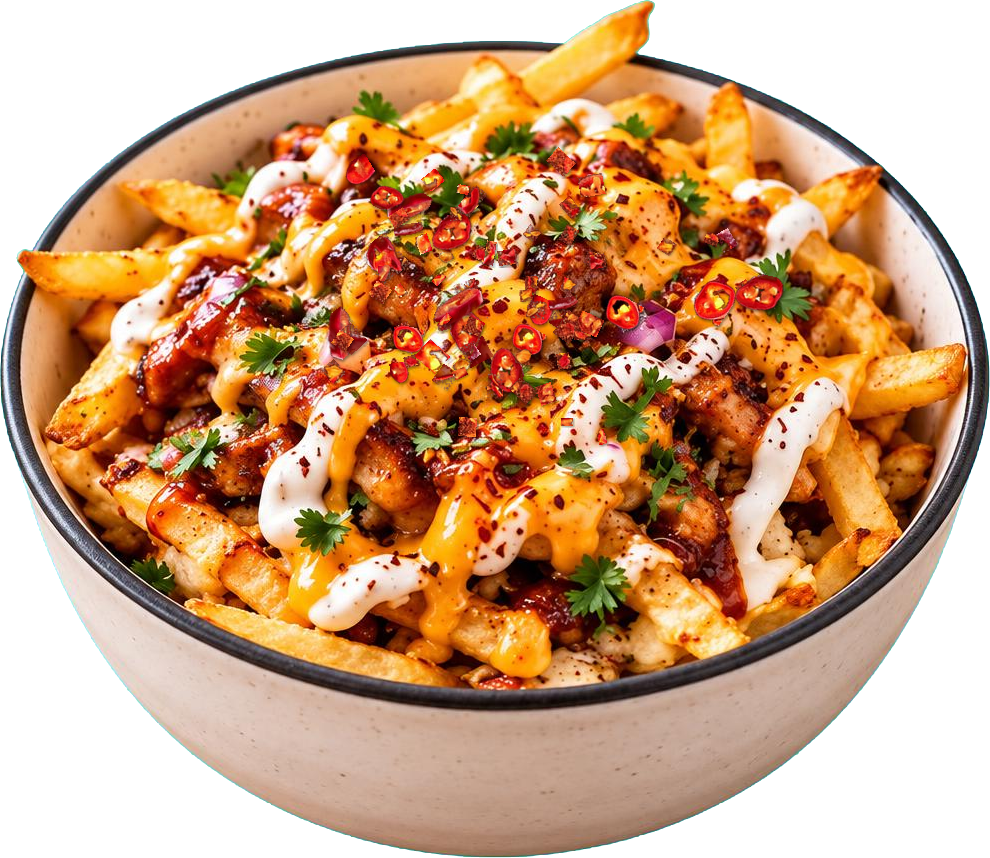
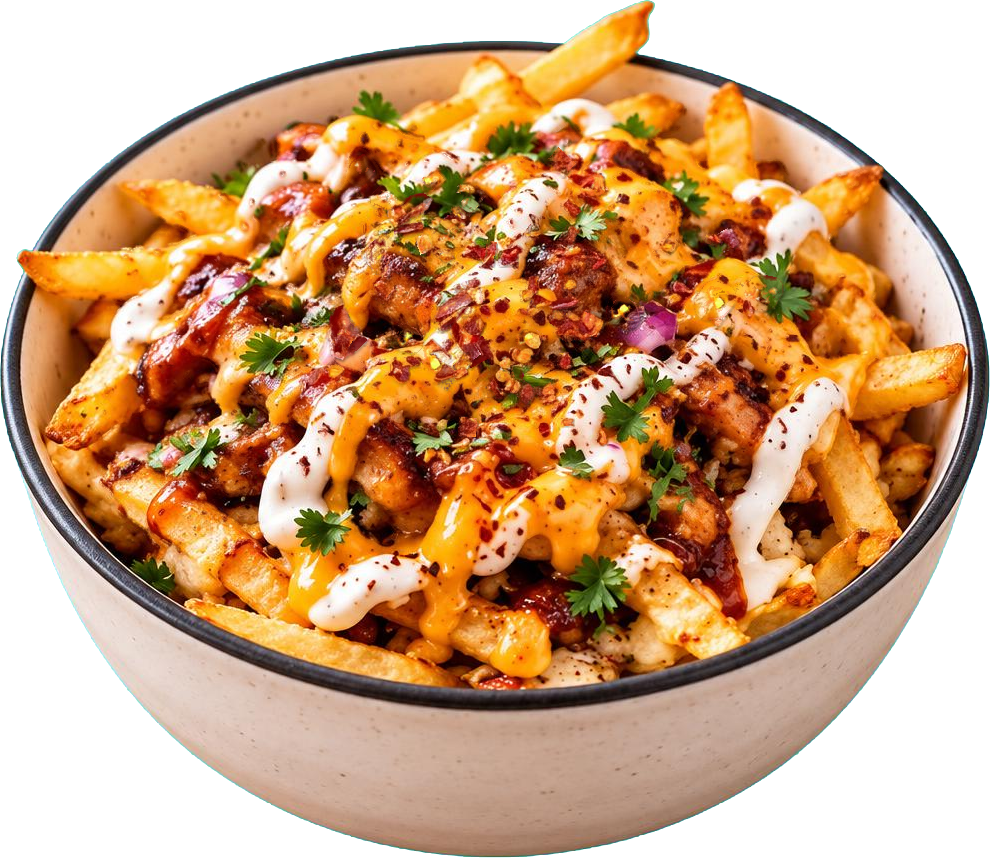
feat: animate bowl and floating ingredients entrance, remove chili rings, optimize hero performance

diff --git a/src/components/food-hero.tsx b/src/components/food-hero.tsx
@@ -4,6 +4,7 @@ import chickenRound from "@/assets/chicken-cutout-1.png";
 import chickenLong from "@/assets/chicken-cutout-2.png";
 import chickenAngular from "@/assets/chicken-cutout-3.png";
 import chickenOblong from "@/assets/chicken-cutout-4.png";
+import crispyChicken from "@/assets/crispy-chicken-piece.png";
 import friesCurved from "@/assets/fries-cutout-1.png";
 import friesShort from "@/assets/fries-cutout-2.png";
 import friesTapered from "@/assets/fries-cutout-3.png";
@@ -21,6 +22,11 @@ const floatingFood = [
   { src: friesBent, position: "food-piece-7", rotation: "14deg", delay: "-6.2s", duration: "10.3s", lift: "-28px", sway: "5px", speed: 0.28, ease: 0.065, drift: 0.025, spin: -0.018 },
   { src: chickenOblong, position: "food-piece-8", rotation: "-45deg", delay: "-3.9s", duration: "8.8s", lift: "-13px", sway: "-12px", speed: 0.14, ease: 0.085, drift: -0.02, spin: 0.034 },
   { src: friesNarrow, position: "food-piece-9", rotation: "30deg", delay: "-2.6s", duration: "7.1s", lift: "-20px", sway: "7px", speed: 0.24, ease: 0.05, drift: 0.03, spin: -0.025 },
+  { src: friesShort, position: "food-piece-10", rotation: "-18deg", delay: "-3.6s", duration: "7.8s", lift: "-18px", sway: "9px", speed: 0.21, ease: 0.06, drift: 0.028, spin: 0.018 },
+  { src: friesBent, position: "food-piece-11", rotation: "42deg", delay: "-1.9s", duration: "8.6s", lift: "-22px", sway: "-7px", speed: 0.23, ease: 0.08, drift: -0.032, spin: -0.02 },
+  { src: crispyChicken, position: "food-piece-12", rotation: "15deg", delay: "-4.1s", duration: "9.2s", lift: "-15px", sway: "-9px", speed: 0.15, ease: 0.07, drift: 0.025, spin: 0.016 },
+  { src: chickenRound, position: "food-piece-13", rotation: "-35deg", delay: "-2.8s", duration: "6.9s", lift: "-17px", sway: "8px", speed: 0.18, ease: 0.095, drift: -0.022, spin: -0.024 },
+  { src: friesCurved, position: "food-piece-14", rotation: "-15deg", delay: "-5.3s", duration: "8.5s", lift: "-24px", sway: "10px", speed: 0.25, ease: 0.06, drift: 0.03, spin: 0.022 },
   { src: friesGolden, position: "food-foreground food-foreground-1", rotation: "-32deg", delay: "-4.8s", duration: "9.1s", lift: "-16px", sway: "7px", speed: 0.2, ease: 0.07, drift: -0.02, spin: 0.014 },
   { src: chickenRound, position: "food-foreground food-foreground-2", rotation: "22deg", delay: "-2.4s", duration: "8.4s", lift: "-12px", sway: "-6px", speed: 0.16, ease: 0.08, drift: 0.02, spin: -0.018 },
   { src: friesTapered, position: "food-foreground food-foreground-3", rotation: "-12deg", delay: "-5.1s", duration: "10.1s", lift: "-18px", sway: "5px", speed: 0.25, ease: 0.06, drift: 0.015, spin: 0.02 },
@@ -167,6 +173,69 @@ export function FoodHero({ children }: { children: React.ReactNode }) {
       window.removeEventListener("scroll", update);
       window.removeEventListener("resize", resize);
       reducedMotion.removeEventListener("change", update);
+    };
+  }, []);
+
+  useEffect(() => {
+    const section = sectionRef.current;
+    if (!section) return;
+
+    const reducedMotion = window.matchMedia("(prefers-reduced-motion: reduce)");
+    if (reducedMotion.matches) {
+      section.style.setProperty("--intro-bowl-y", "0px");
+      section.style.setProperty("--intro-piece-y", "0px");
+      return;
+    }
+
+    // Initial offsets: Bowl sits low (+380px down), floating pieces hover up (-360px above)
+    const startBowlY = 380;
+    const startPieceY = -360;
+    section.style.setProperty("--intro-bowl-y", `${startBowlY}px`);
+    section.style.setProperty("--intro-piece-y", `${startPieceY}px`);
+
+    let animFrame = 0;
+
+    const startAnimation = () => {
+      // Delay slightly (120ms) so preloader curtain panels finish their initial burst before bowl begins rising
+      setTimeout(() => {
+        let startTime = 0;
+        const duration = 1600; // 1.6s smooth entrance
+
+        // Smooth ease-out cubic
+        const easeOutCubic = (t: number) => 1 - Math.pow(1 - t, 3);
+
+        const step = (now: number) => {
+          if (!startTime) startTime = now;
+          const elapsed = now - startTime;
+          const progress = Math.min(1, elapsed / duration);
+          const eased = easeOutCubic(progress);
+
+          const currentBowlY = startBowlY * (1 - eased);
+          const currentPieceY = startPieceY * (1 - eased);
+
+          section.style.setProperty("--intro-bowl-y", `${currentBowlY.toFixed(2)}px`);
+          section.style.setProperty("--intro-piece-y", `${currentPieceY.toFixed(2)}px`);
+
+          if (progress < 1) {
+            animFrame = window.requestAnimationFrame(step);
+          } else {
+            section.style.setProperty("--intro-bowl-y", "0px");
+            section.style.setProperty("--intro-piece-y", "0px");
+          }
+        };
+
+        animFrame = window.requestAnimationFrame(step);
+      }, 120);
+    };
+
+    // Trigger on preloader curtain exit, or fallback if preloader already exited/skipped
+    window.addEventListener("preloader:exit", startAnimation, { once: true });
+    const fallbackTimer = window.setTimeout(startAnimation, 2400);
+
+    return () => {
+      window.removeEventListener("preloader:exit", startAnimation);
+      window.clearTimeout(fallbackTimer);
+      window.cancelAnimationFrame(animFrame);
     };
   }, []);
 

diff --git a/src/styles.css b/src/styles.css
@@ -172,12 +172,18 @@
   top: 30%;
   left: 50%;
   width: min(56%, 600px);
-  transform: translate(-50%, var(--scroll-y, 0px)) rotate(var(--scroll-rotation, 0deg));
+  transform: translate3d(-50%, calc(var(--intro-bowl-y, 0px) + var(--scroll-y, 0px)), 0) rotate(var(--scroll-rotation, 0deg));
   will-change: transform;
+  contain: layout paint;
 }
 .food-piece {
-  transform: translate(calc(var(--scroll-x, 0px) + var(--cursor-x, 0px)), calc(var(--scroll-y, 0px) + var(--cursor-y, 0px))) rotate(var(--scroll-rotation, 0deg));
+  transform: translate3d(
+    calc(var(--scroll-x, 0px) + var(--cursor-x, 0px)),
+    calc(var(--intro-piece-y, 0px) + var(--scroll-y, 0px) + var(--cursor-y, 0px)),
+    0
+  ) rotate(var(--scroll-rotation, 0deg));
   will-change: transform;
+  contain: layout paint;
 }
 .food-piece-image {
   animation: food-drift var(--float-duration, 7s) ease-in-out infinite;
@@ -187,19 +193,24 @@
   38% { transform: translate(var(--float-sway, 6px), var(--float-lift, -18px)) rotate(calc(var(--r, 0deg) + 6deg)); }
   72% { transform: translate(calc(var(--float-sway, 6px) * -0.5), calc(var(--float-lift, -18px) * 0.35)) rotate(calc(var(--r, 0deg) - 4deg)); }
 }
-.food-piece-1 { left: 4%; top: 22%; width: 84px; }
-.food-piece-2 { left: 14%; top: 38%; width: 138px; }
-.food-piece-3 { left: 4%; top: 60%; width: 125px; }
-.food-piece-4 { left: 19%; top: 79%; width: 62px; }
-.food-piece-5 { right: 24%; top: 12%; width: 130px; }
-.food-piece-6 { right: 4%; top: 30%; width: 94px; }
-.food-piece-7 { right: 13%; top: 52%; width: 104px; }
-.food-piece-8 { right: 5%; top: 77%; width: 105px; }
-.food-piece-9 { left: 29%; top: 84%; width: 114px; }
+.food-piece-1 { left: 4%; top: 20%; width: 105px; }
+.food-piece-2 { left: 13%; top: 36%; width: 175px; }
+.food-piece-3 { left: 3%; top: 58%; width: 160px; }
+.food-piece-4 { left: 18%; top: 78%; width: 85px; }
+.food-piece-5 { right: 22%; top: 10%; width: 165px; }
+.food-piece-6 { right: 4%; top: 28%; width: 120px; }
+.food-piece-7 { right: 12%; top: 50%; width: 140px; }
+.food-piece-8 { right: 4%; top: 74%; width: 135px; }
+.food-piece-9 { left: 28%; top: 83%; width: 155px; }
+.food-piece-10 { left: 7%; top: 40%; width: 150px; }
+.food-piece-11 { right: 26%; top: 80%; width: 160px; }
+.food-piece-12 { right: 10%; top: 20%; width: 110px; }
+.food-piece-13 { left: 12%; top: 70%; width: 95px; }
+.food-piece-14 { right: 18%; top: 66%; width: 100px; }
 .food-foreground { z-index: 35; }
-.food-foreground-1 { left: -7%; top: 36%; width: 250px; filter: blur(4px); }
-.food-foreground-2 { right: -8%; top: 66%; width: 225px; filter: blur(5px); }
-.food-foreground-3 { right: 20%; top: 84%; width: 200px; filter: blur(3px); }
+.food-foreground-1 { left: -7%; top: 36%; width: 290px; }
+.food-foreground-2 { right: -8%; top: 66%; width: 260px; }
+.food-foreground-3 { right: 20%; top: 84%; width: 235px; }
 
 @media (min-width: 1280px) {
   .food-headline { font-size: 120px; }
@@ -211,17 +222,22 @@
   .food-hero { height: 100vh; height: 100dvh; min-height: 100vh; min-height: 100dvh; padding-top: 110px; }
   .food-headline { font-size: 48px; }
   .food-bowl { top: 36%; width: 88%; }
-  .food-piece-1 { left: 3%; top: 36%; width: 48px; }
-  .food-piece-2 { left: 1%; top: 59%; width: 80px; }
-  .food-piece-3 { left: 6%; top: 79%; width: 75px; }
-  .food-piece-4 { left: 28%; top: 75%; width: 42px; }
-  .food-piece-5 { right: 9%; top: 11%; width: 68px; }
-  .food-piece-6 { right: 2%; top: 36%; width: 48px; }
-  .food-piece-7 { right: 0%; top: 61%; width: 78px; }
-  .food-piece-8 { right: 7%; top: 80%; width: 62px; }
+  .food-piece-1 { left: 3%; top: 36%; width: 60px; }
+  .food-piece-2 { left: 1%; top: 59%; width: 100px; }
+  .food-piece-3 { left: 6%; top: 79%; width: 95px; }
+  .food-piece-4 { left: 28%; top: 75%; width: 55px; }
+  .food-piece-5 { right: 9%; top: 11%; width: 88px; }
+  .food-piece-6 { right: 2%; top: 36%; width: 62px; }
+  .food-piece-7 { right: 0%; top: 61%; width: 98px; }
+  .food-piece-8 { right: 7%; top: 80%; width: 78px; }
   .food-piece-9 { display: none; }
-  .food-foreground-1 { left: -23%; top: 42%; width: 165px; filter: blur(3px); }
-  .food-foreground-2 { right: -22%; top: 76%; width: 145px; filter: blur(4px); }
+  .food-piece-10 { display: none; }
+  .food-piece-11 { display: none; }
+  .food-piece-12 { display: none; }
+  .food-piece-13 { display: none; }
+  .food-piece-14 { display: none; }
+  .food-foreground-1 { left: -23%; top: 42%; width: 195px; }
+  .food-foreground-2 { right: -22%; top: 76%; width: 175px; }
   .food-foreground-3 { display: none; }
 }
 @media (max-width: 359px) {

diff --git a/src/components/preloader.tsx b/src/components/preloader.tsx
@@ -58,6 +58,7 @@ export function Preloader() {
         // Trigger curtain exit
         setTimeout(() => {
           setIsExiting(true);
+          window.dispatchEvent(new CustomEvent("preloader:exit"));
         }, 150);
 
         // Remove from DOM after curtain panels complete their staggered slide
